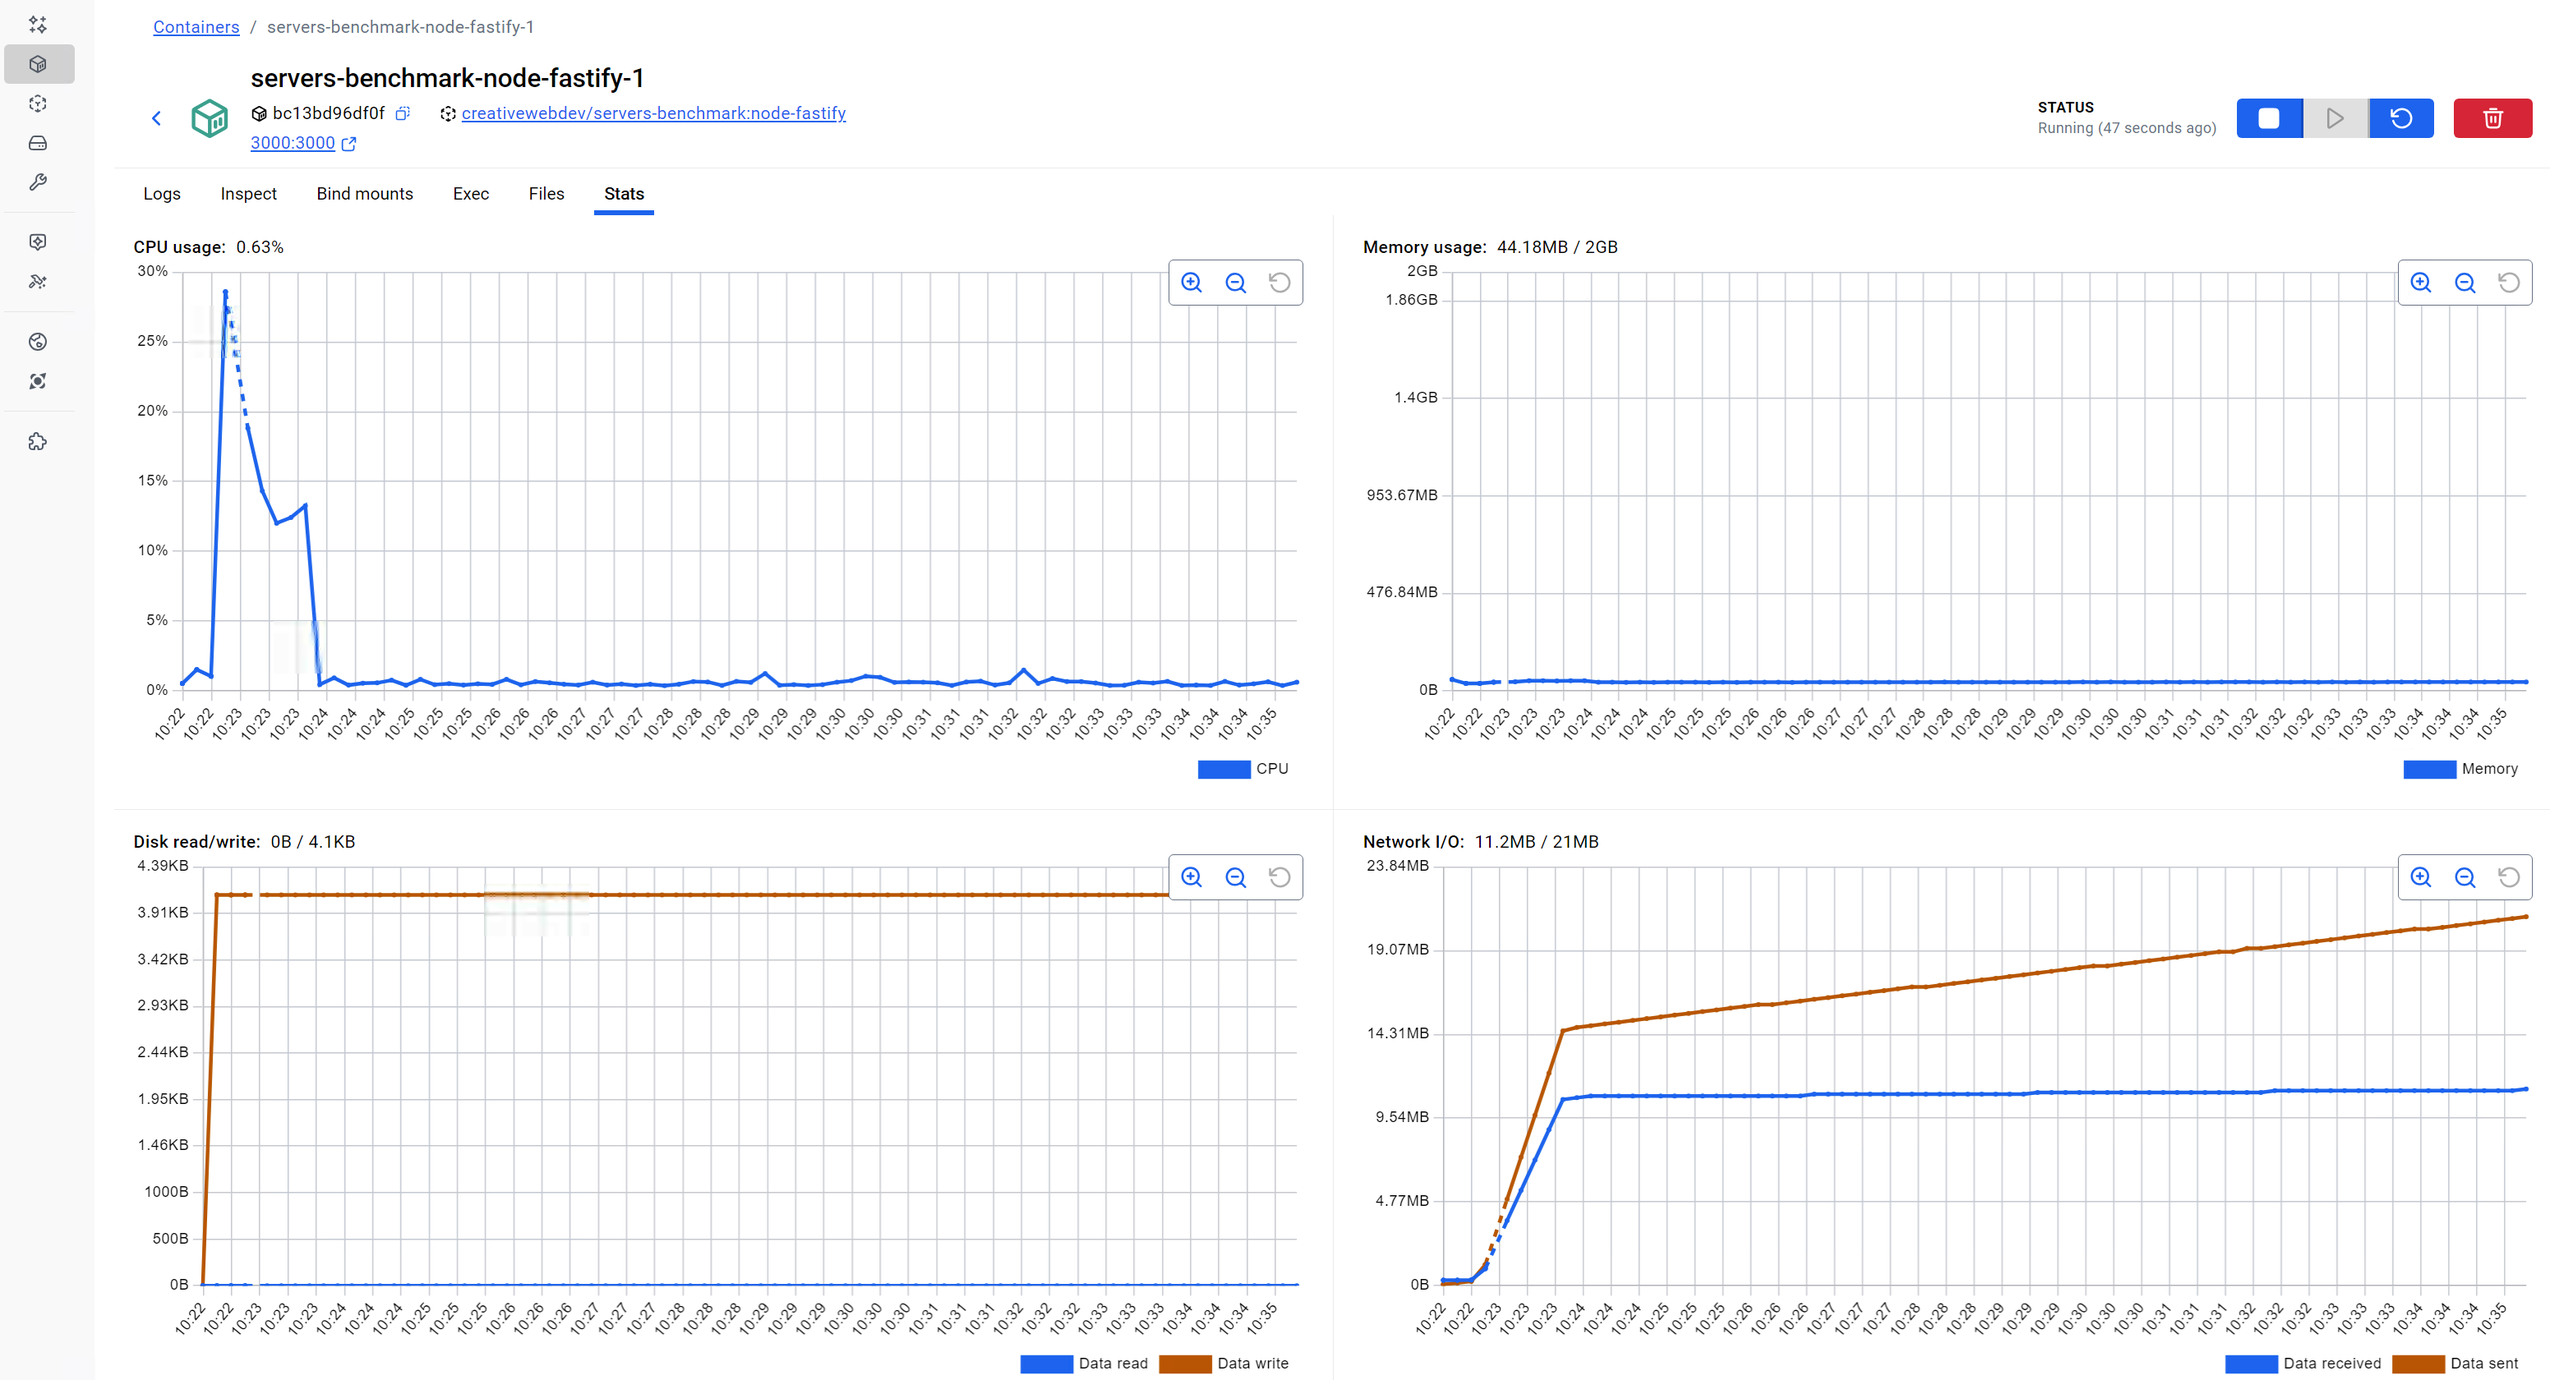
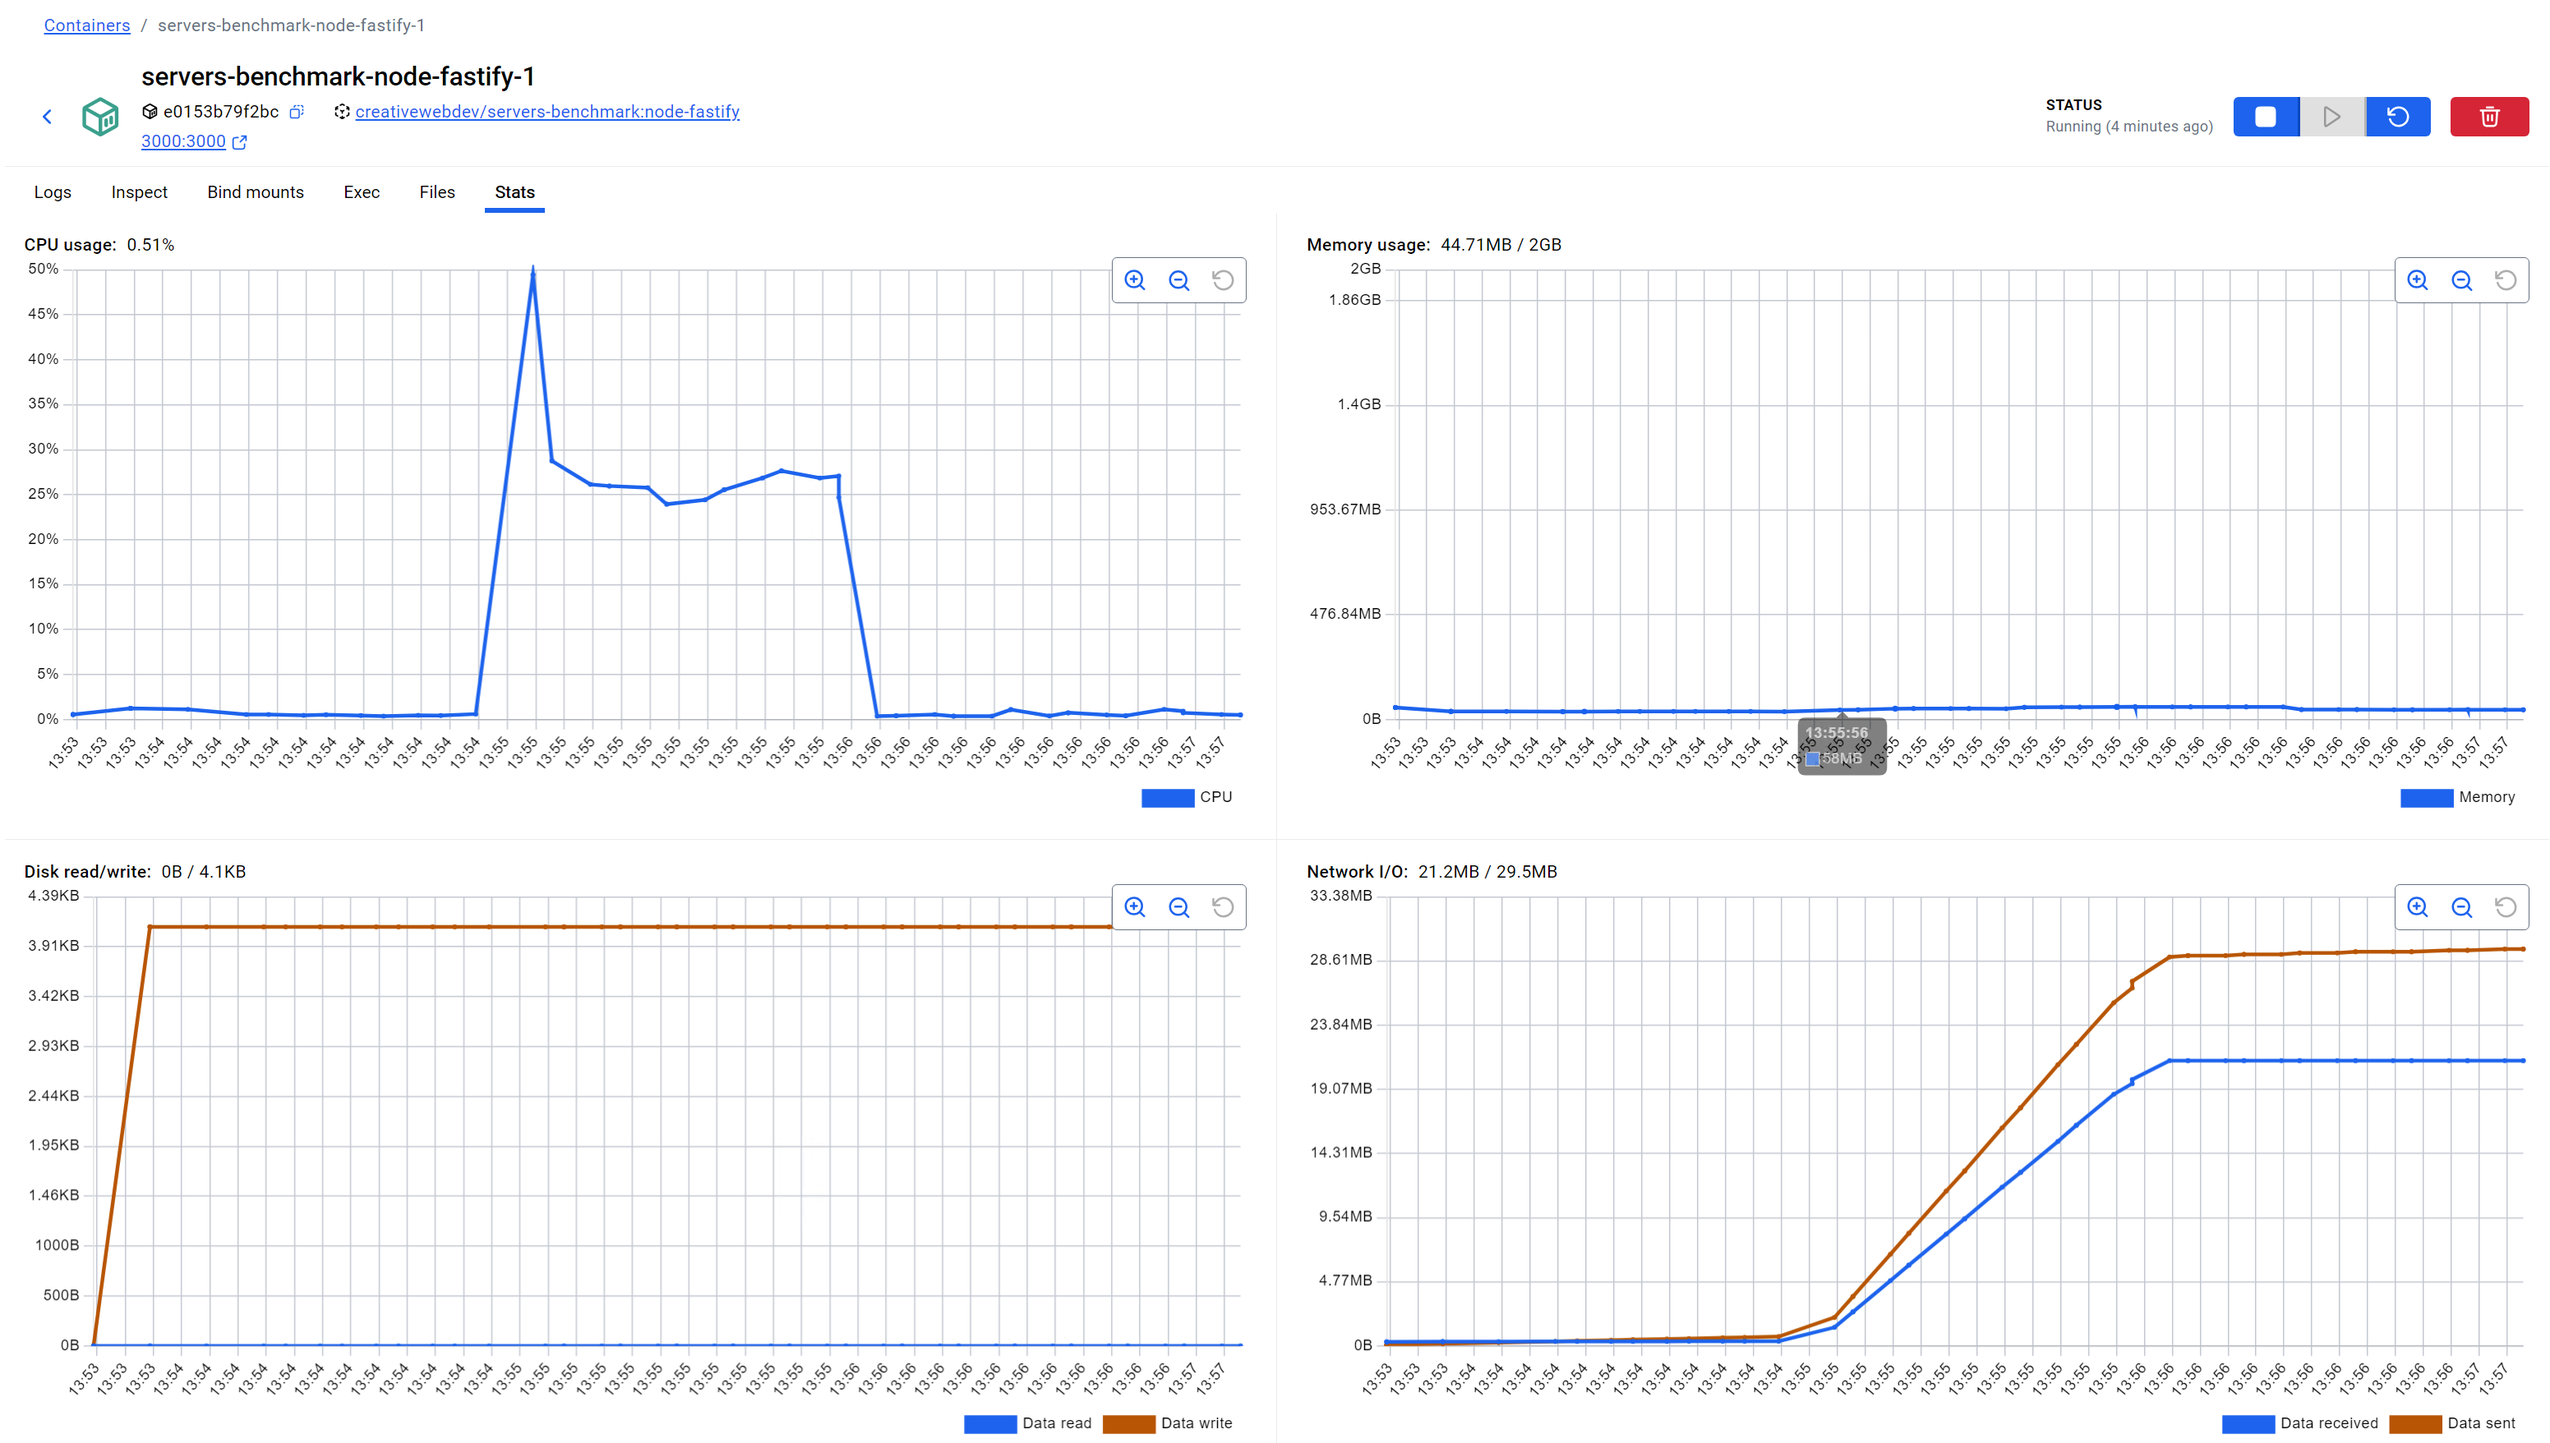
finished stress test on LION IMS

diff --git a/tests/crud.js b/tests/crud.js
@@ -2,14 +2,20 @@ import http from "k6/http";
 import { check, group, sleep } from "k6";
 
 // CAN PERFORM CRUD OPERATIONS
-const bun_elysia = 6485;
+
+// 1,2,3
+// const bun_elysia = 6485;
+
+// 1,2,3
 // const dotnet = 8080;
-// const node_fastify = 3000;
+
+// 1,2, 3
+const node_fastify = 3000;
 
 // const bun_hono = 1103;
 // const node_express = 6582;
 
-const PORT = bun_elysia;
+const PORT = node_fastify;
 
 // NOTE: This approach will be commented out because:
 // It models load based on the number of active virtual users (VUs),
